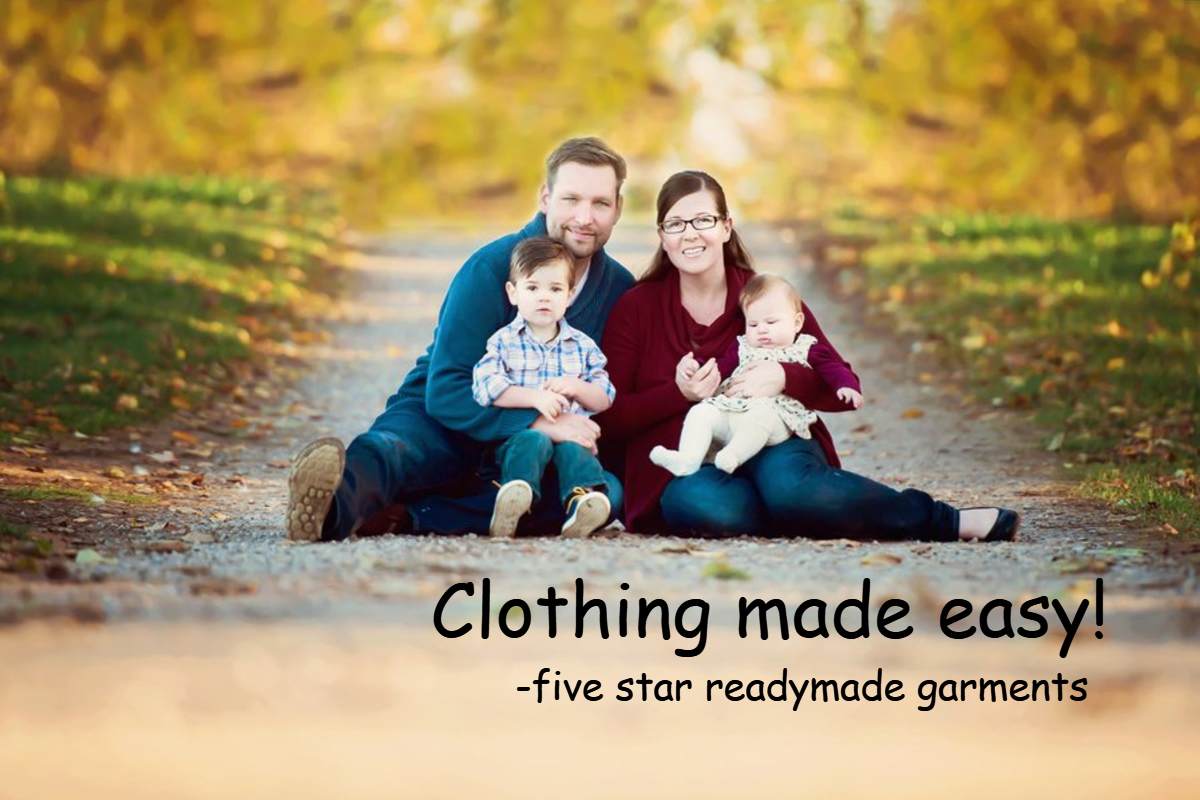
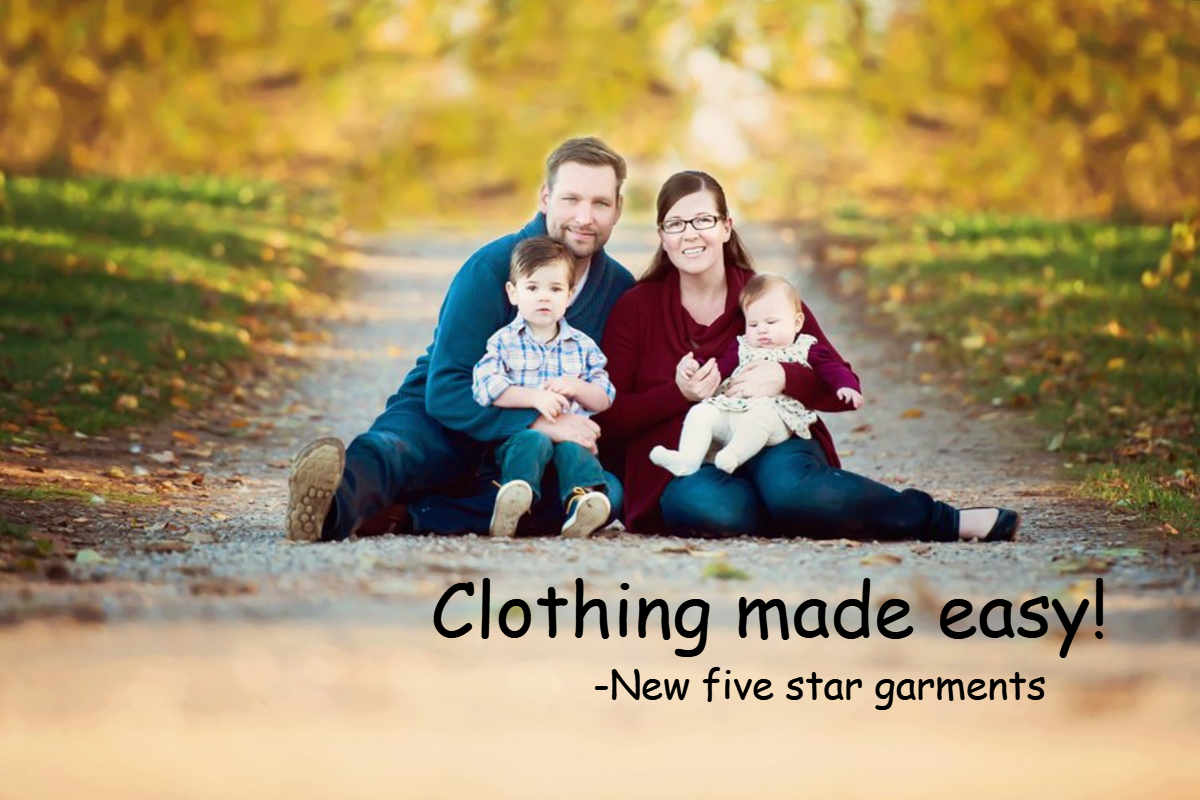
Text changed

Changed region(s): [[0.4317, 0.8438, 0.925, 0.875]]

diff --git a/public/gallery.php b/public/gallery.php
@@ -23,7 +23,7 @@
     <div class="item active">
       <img class="shopimg" src="images/shop1.1.jpg" alt="shop1">
       <div class="carousel-caption">
-        <h3>Five star garments</h3>
+        <h3>New Five star garments</h3>
         <p>Exterior photos</p>
       </div>
     </div>
@@ -31,7 +31,7 @@
     <div class="item">
       <img class="shopimg" src="images/shop1.2.jpg" alt="shop2">
       <div class="carousel-caption">
-        <h3>Five star garments</h3>
+        <h3>New Five star garments</h3>
         <p>Interior photos</p>
       </div>
     </div>
@@ -39,7 +39,7 @@
     <div class="item">
       <img class="shopimg" src="images/shop1.3.jpg" alt="shop3">
       <div class="carousel-caption">
-        <h3>Five star garments</h3>
+        <h3>New Five star garments</h3>
         <p>View from outside</p>
       </div>
     </div>
@@ -47,14 +47,14 @@
     <div class="item">
       <img class="shopimg" src="images/shop1.4.jpg" alt="shop4">
       <div class="carousel-caption">
-        <h3>Five star garments</h3>
+        <h3>New Five star garments</h3>
         <p>Interior photos</p>
       </div>
     </div>
     <div class="item">
       <img class="shopimg" src="images/shop1.5.jpg" alt="shop5">
       <div class="carousel-caption">
-        <h3>Five star garments</h3>
+        <h3>New Five star garments</h3>
         <p>Exterior photos</p>
       </div>
     </div>

diff --git a/public/about.php b/public/about.php
@@ -10,7 +10,7 @@
 <link rel="stylesheet" type="text/css" href="stylesheet/aboutstyl.css">
 		<div class="base">
 			<div class="page-header">
-				<h2>Five star readymade Garments</h2>
+				<h2>New Five star Garments</h2>
 			</div>
 			<p class="para">A family clothing shop based in New delhi. We deal in formal clothing, casual clothing, woolen clothing, baby clothing, wedding clothing and other clothing accessories. The store is open all seven days with working hours from 10:30AM to 9:30PM <kbd>except Monday.</kbd></p>
 		<p class="para">
